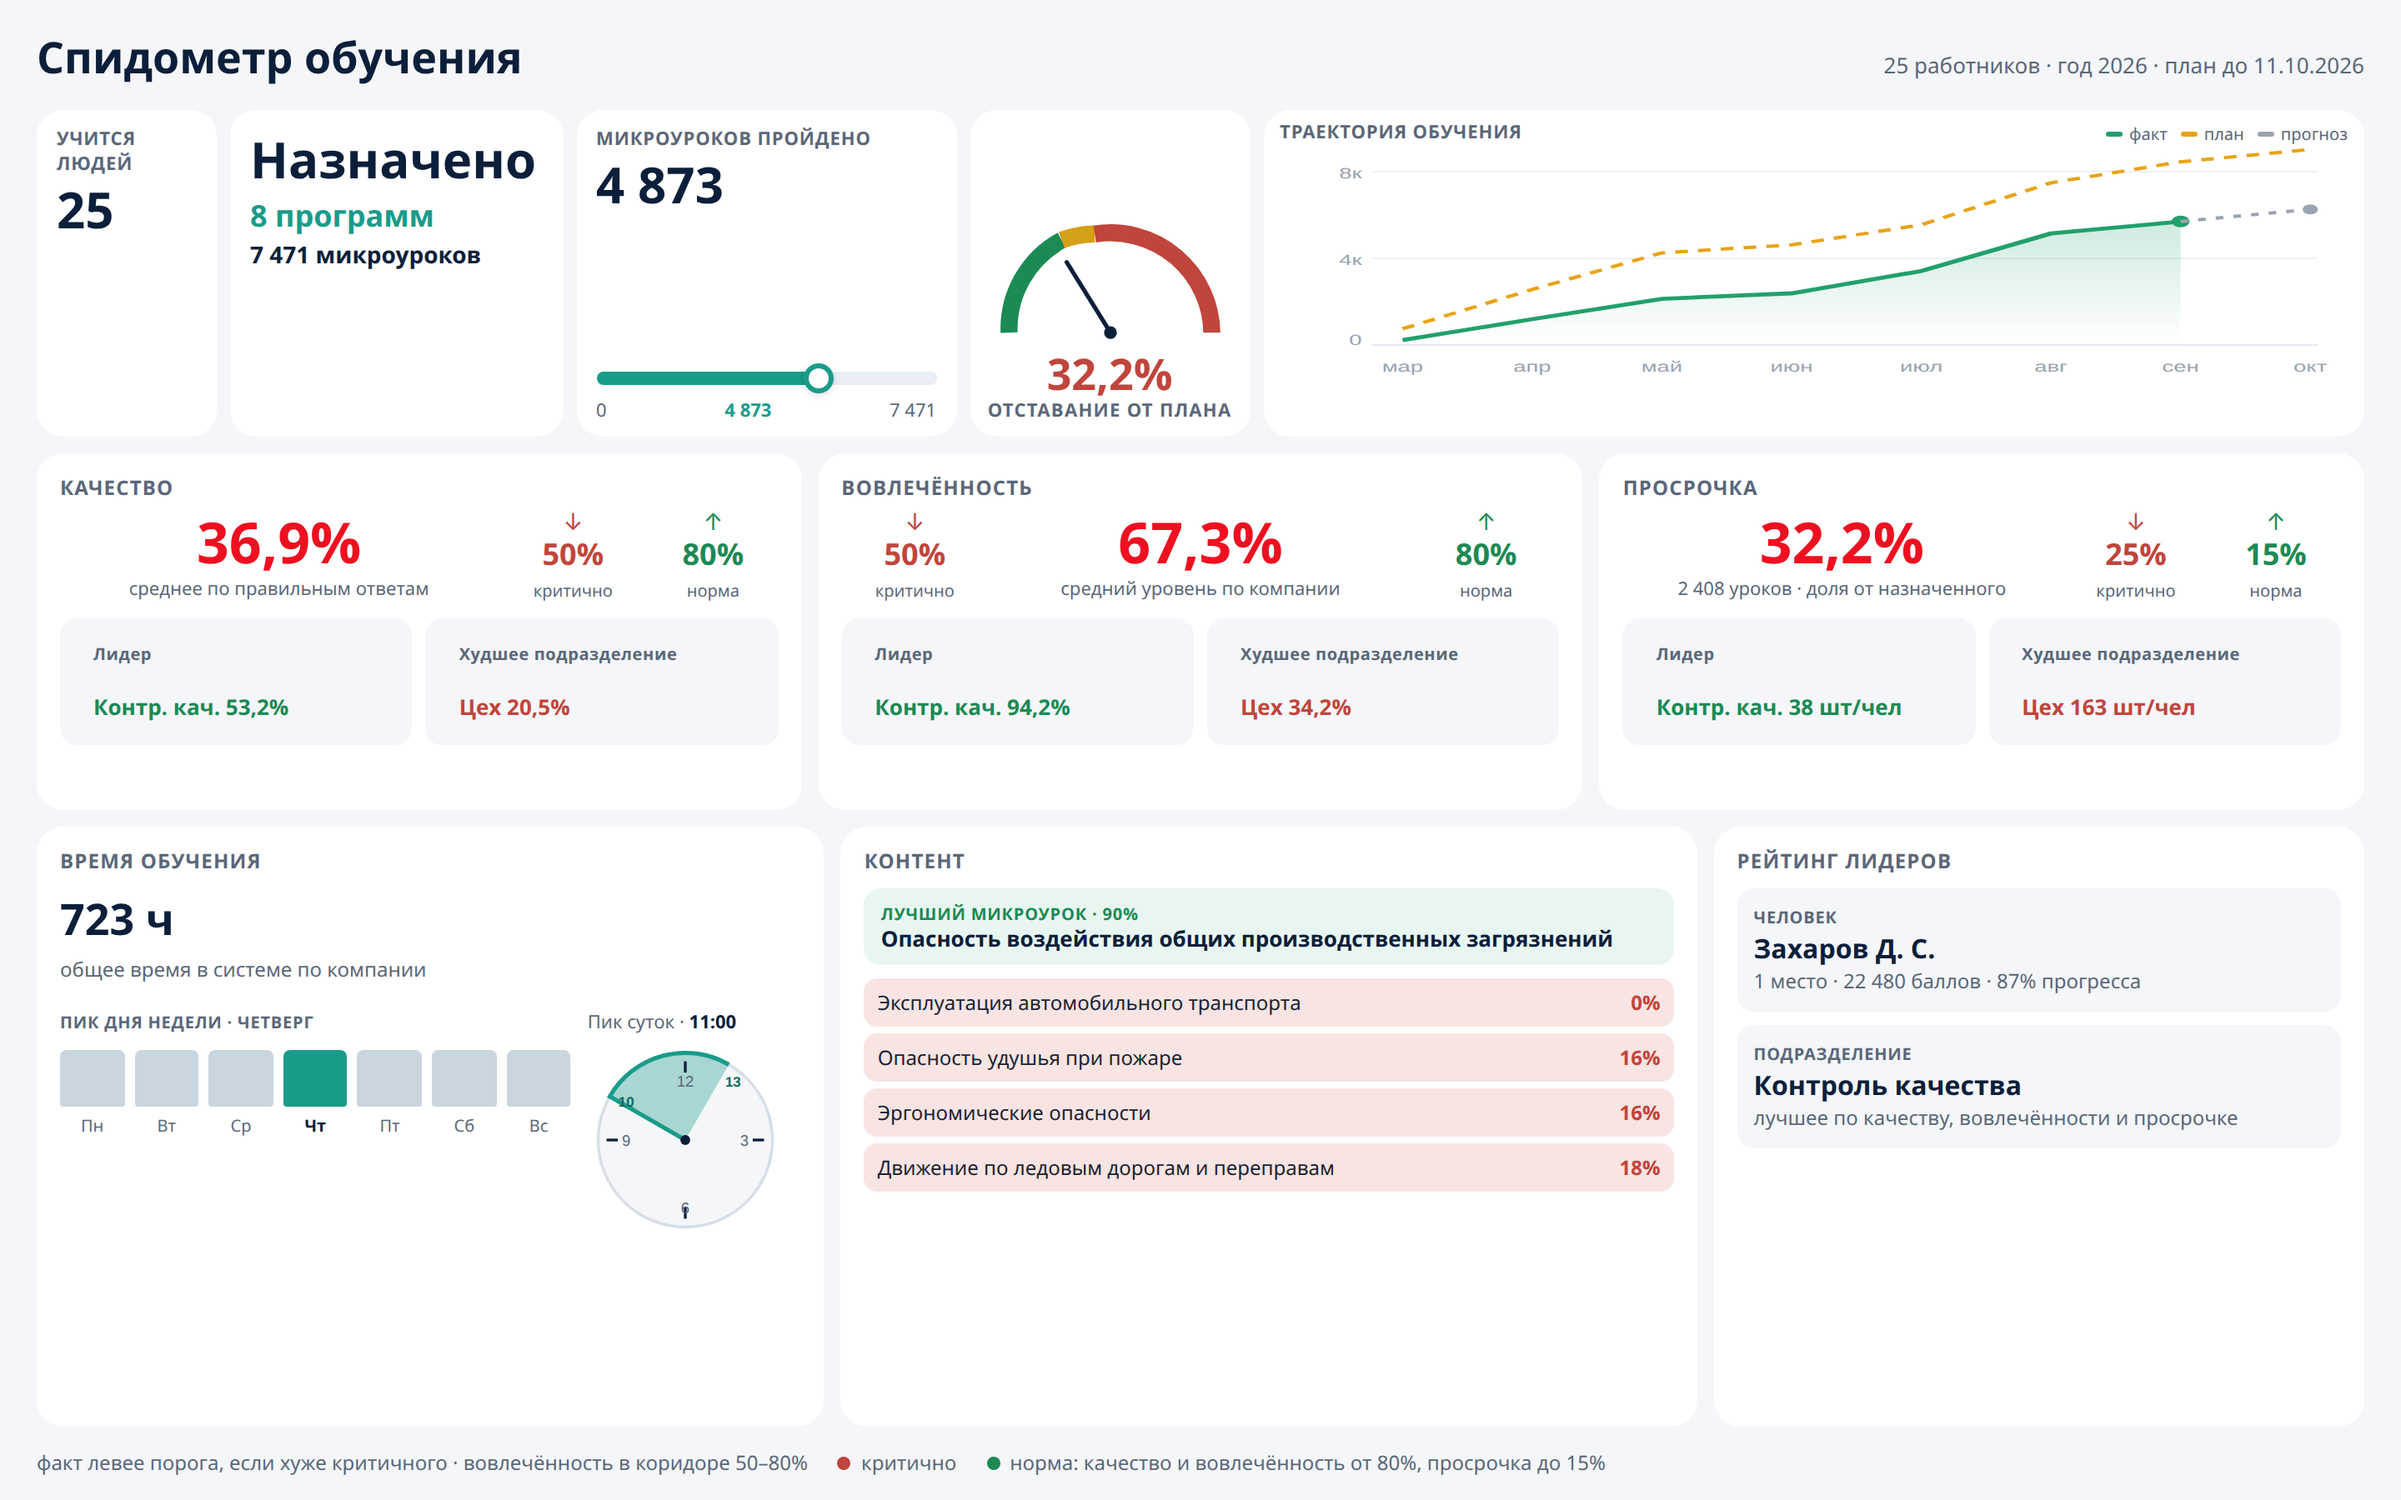
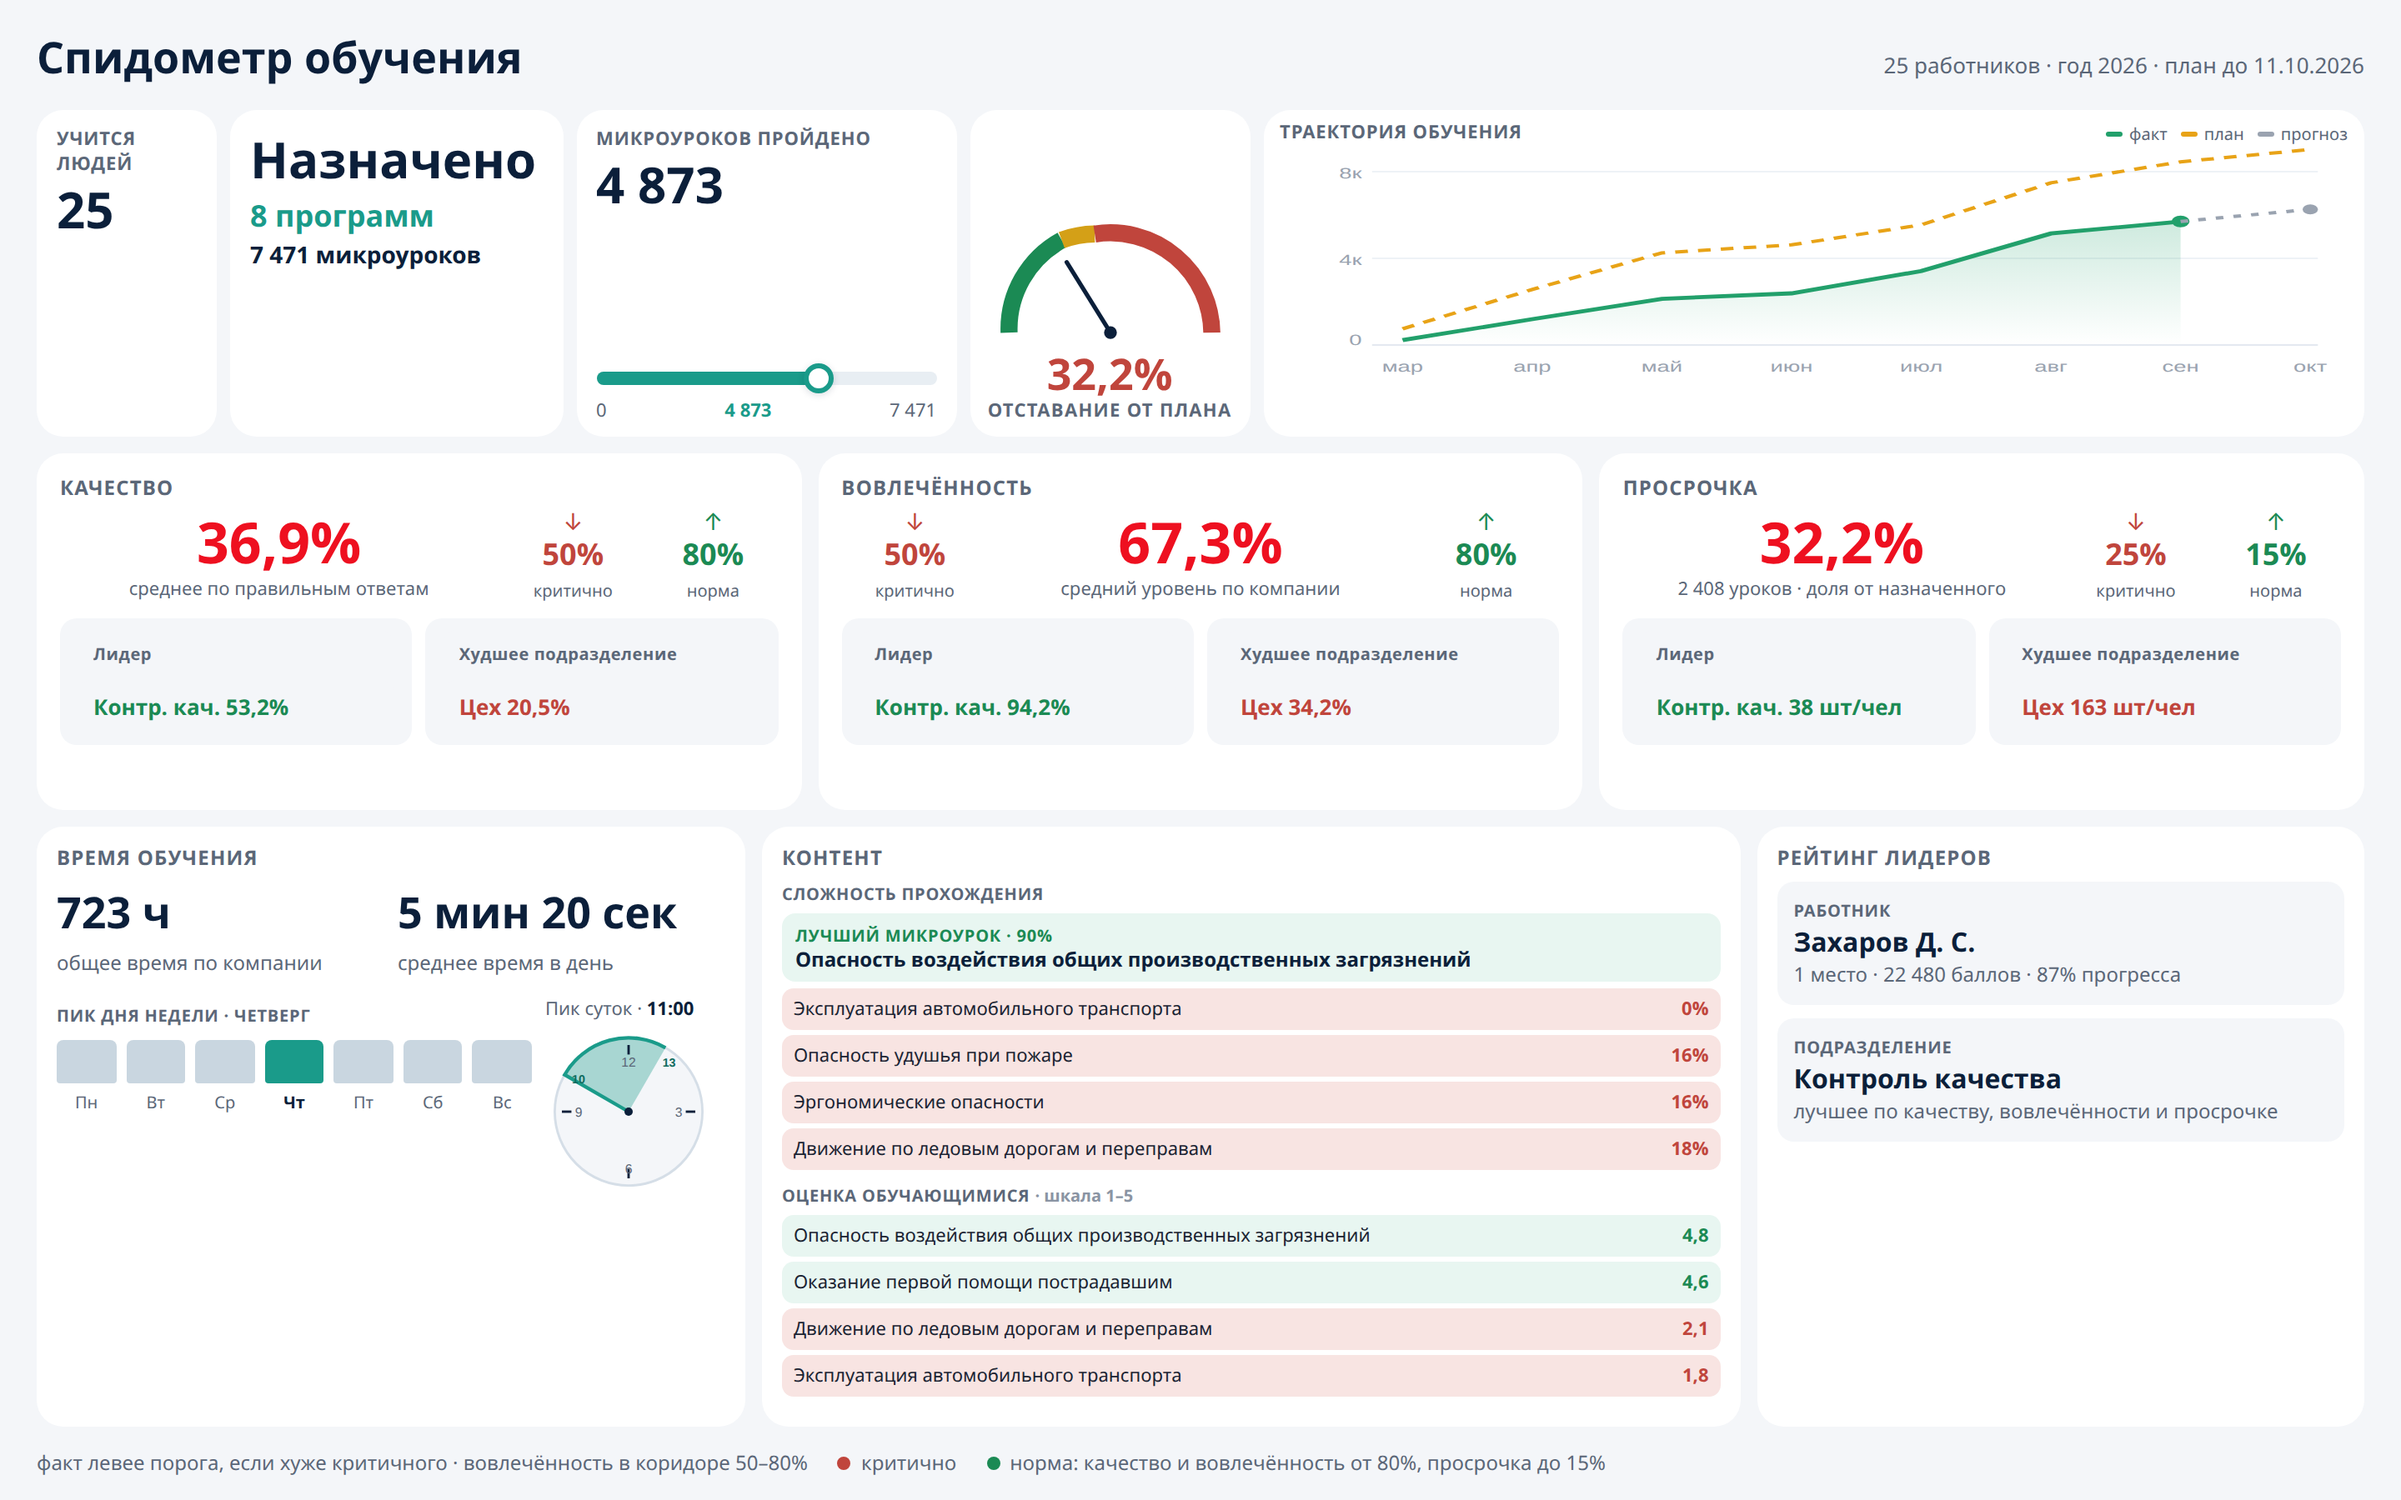
Split content into pass-rate and learner-score groups, add daily study time, and label the leader as a worker.
Complexity of completion stays as the first content subgroup; learner ratings use a 1–5 scale with tenths, two green highs and two red lows.

Changed region(s): [[0.0, 0.56, 0.9375, 0.9333]]

diff --git a/issledovaniya/vizualy/spidometr-obucheniya.html b/issledovaniya/vizualy/spidometr-obucheniya.html
@@ -28,7 +28,7 @@
     .prog {
       font-size: 13px; font-weight: 700; color: var(--teal); margin-bottom: 2px;
     }
-    .time-grid { display: grid; grid-template-columns: 1fr 128px; gap: 10px; align-items: start; margin-top: 8px; }
+    .time-grid { display: grid; grid-template-columns: 1fr 108px; gap: 8px; align-items: start; margin-top: 8px; }
     .meta { color: var(--muted); font-size: 13px; text-align: right; }
     .card { background: var(--white); border-radius: 16px; }
     .hero {
@@ -94,17 +94,18 @@
     .bw .v { font-size: 13px; font-weight: 700; margin-top: 2px; }
     .best .v { color: var(--green); }
     .worst .v { color: var(--red); }
-    .bottom { display: grid; grid-template-columns: 1.15fr 1.25fr .95fr; gap: 10px; min-height: 0; }
-    .block { padding: 12px 14px; }
-    .block h2 { margin: 0 0 8px; font-size: 12px; font-weight: 700; letter-spacing: .05em; text-transform: uppercase; color: var(--muted); }
+    .bottom { display: grid; grid-template-columns: 1.05fr 1.45fr .9fr; gap: 10px; min-height: 0; }
+    .block { padding: 10px 12px; }
+    .block h2 { margin: 0 0 6px; font-size: 12px; font-weight: 700; letter-spacing: .05em; text-transform: uppercase; color: var(--muted); }
+    .time-kpis { display: grid; grid-template-columns: 1fr 1fr; gap: 8px; }
     .time-num { font-size: 26px; font-weight: 700; color: var(--navy); }
-    .bars { display: flex; align-items: flex-end; gap: 6px; height: 52px; margin-top: 10px; }
+    .bars { display: flex; align-items: flex-end; gap: 6px; height: 44px; margin-top: 8px; }
     .bar { flex: 1; display: flex; flex-direction: column; align-items: center; justify-content: flex-end; height: 100%; }
     .bar i { display: block; width: 100%; border-radius: 4px 4px 2px 2px; background: #C9D6E0; }
     .bar.peak i { background: #1A9B8A; }
     .bar span { font-size: 10px; color: var(--muted); margin-top: 4px; }
     .bar.peak span { color: var(--navy); font-weight: 700; }
-    .clock-wrap { margin-top: 8px; }
+    .clock-wrap { margin-top: 4px; }
     .clock-lab { font-size: 11px; color: var(--muted); margin-bottom: 4px; }
     .clock-lab b { color: var(--navy); }
     .hours { display: flex; height: 18px; border-radius: 6px; overflow: hidden; background: #E8EEF3; }
@@ -112,14 +113,18 @@
     .hours span.on { background: #1A9B8A; }
     .hours span.peak { background: #0E6B5E; }
     .h-labs { display: flex; justify-content: space-between; font-size: 10px; color: var(--muted); margin-top: 3px; }
-    .best-lesson { background: #E8F6F1; border-radius: 10px; padding: 8px 10px; margin-bottom: 8px; }
+    .subh { font-size: 10px; font-weight: 700; letter-spacing: .04em; text-transform: uppercase; color: var(--muted); margin: 2px 0 5px; }
+    .subh em { font-style: normal; font-weight: 600; letter-spacing: 0; text-transform: none; color: #8A94A3; }
+    .best-lesson { background: #E8F6F1; border-radius: 8px; padding: 6px 8px; margin-bottom: 4px; }
     .best-lesson .l { font-size: 10px; font-weight: 700; color: var(--green); letter-spacing: .04em; text-transform: uppercase; }
-    .best-lesson .n { font-size: 13px; font-weight: 700; margin-top: 2px; }
+    .best-lesson .n { font-size: 12px; font-weight: 700; margin-top: 1px; line-height: 1.2; }
     .wrow {
       display: grid; grid-template-columns: 1fr auto; gap: 8px; align-items: center;
-      font-size: 12px; background: #F8E4E2; border-radius: 8px; padding: 6px 8px; margin-bottom: 4px;
+      font-size: 11px; background: #F8E4E2; border-radius: 7px; padding: 5px 7px; margin-bottom: 3px;
     }
-    .wrow b { color: var(--red); }
+    .wrow b { color: var(--red); white-space: nowrap; }
+    .wrow.good { background: #E8F6F1; }
+    .wrow.good b { color: var(--green); }
     .lead { display: grid; gap: 8px; }
     .lead .box { background: var(--off); border-radius: 10px; padding: 10px; }
     .lead .l { font-size: 10px; font-weight: 700; color: var(--muted); letter-spacing: .04em; text-transform: uppercase; }
@@ -289,8 +294,16 @@
     <div class="bottom">
       <div class="card block">
         <h2>Время обучения</h2>
-        <div class="time-num">723 ч</div>
-        <div class="s">общее время в системе по компании</div>
+        <div class="time-kpis">
+          <div>
+            <div class="time-num">723 ч</div>
+            <div class="s">общее время по компании</div>
+          </div>
+          <div>
+            <div class="time-num">5 мин 20 сек</div>
+            <div class="s">среднее время в день</div>
+          </div>
+        </div>
         <div class="time-grid">
           <div>
             <div class="s" style="margin-top:8px;font-weight:700;color:#5B6778;text-transform:uppercase;letter-spacing:.04em;font-size:10px">Пик дня недели · четверг</div>
@@ -306,7 +319,7 @@
           </div>
           <div class="clock-wrap">
             <div class="clock-lab">Пик суток · <b>11:00</b></div>
-            <svg width="118" height="118" viewBox="0 0 140 140">
+            <svg width="100" height="100" viewBox="0 0 140 140">
               <circle cx="70" cy="70" r="62" fill="#F4F6F9" stroke="#D5DEE7" stroke-width="2"/>
               <path d="M70 70 L16.3 39 A62 62 0 0 1 101 16.3 Z" fill="#1A9B8A" opacity="0.35"/>
               <path d="M70 70 L16.3 39 A62 62 0 0 1 101 16.3" fill="none" stroke="#1A9B8A" stroke-width="3"/>
@@ -327,6 +340,7 @@
       </div>
       <div class="card block">
         <h2>Контент</h2>
+        <div class="subh">Сложность прохождения</div>
         <div class="best-lesson">
           <div class="l">Лучший микроурок · 90%</div>
           <div class="n">Опасность воздействия общих производственных загрязнений</div>
@@ -335,12 +349,17 @@
         <div class="wrow"><span>Опасность удушья при пожаре</span><b>16%</b></div>
         <div class="wrow"><span>Эргономические опасности</span><b>16%</b></div>
         <div class="wrow"><span>Движение по ледовым дорогам и переправам</span><b>18%</b></div>
+        <div class="subh" style="margin-top:8px">Оценка обучающимися <em>· шкала 1–5</em></div>
+        <div class="wrow good"><span>Опасность воздействия общих производственных загрязнений</span><b>4,8</b></div>
+        <div class="wrow good"><span>Оказание первой помощи пострадавшим</span><b>4,6</b></div>
+        <div class="wrow"><span>Движение по ледовым дорогам и переправам</span><b>2,1</b></div>
+        <div class="wrow"><span>Эксплуатация автомобильного транспорта</span><b>1,8</b></div>
       </div>
       <div class="card block">
         <h2>Рейтинг лидеров</h2>
         <div class="lead">
           <div class="box">
-            <div class="l">Человек</div>
+            <div class="l">Работник</div>
             <div class="n">Захаров Д. С.</div>
             <div class="d">1 место · 22 480 баллов · 87% прогресса</div>
           </div>
